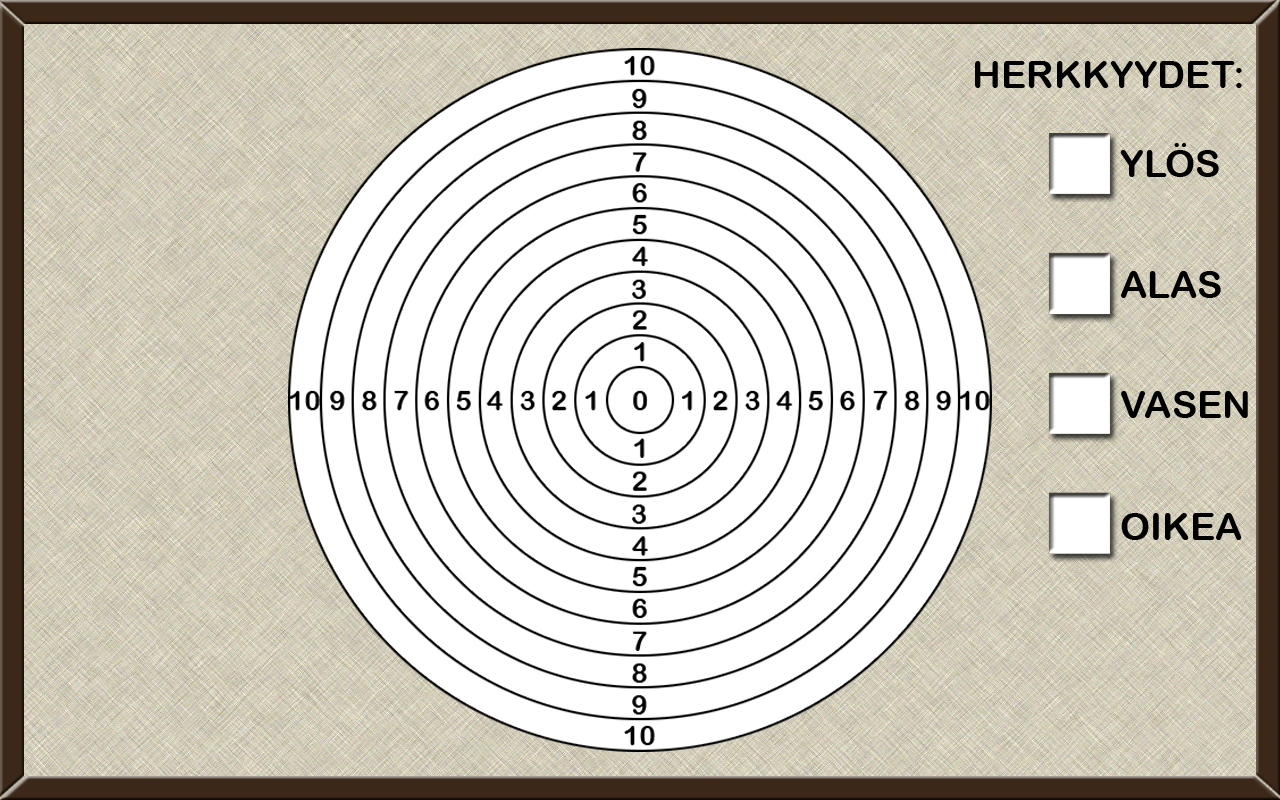
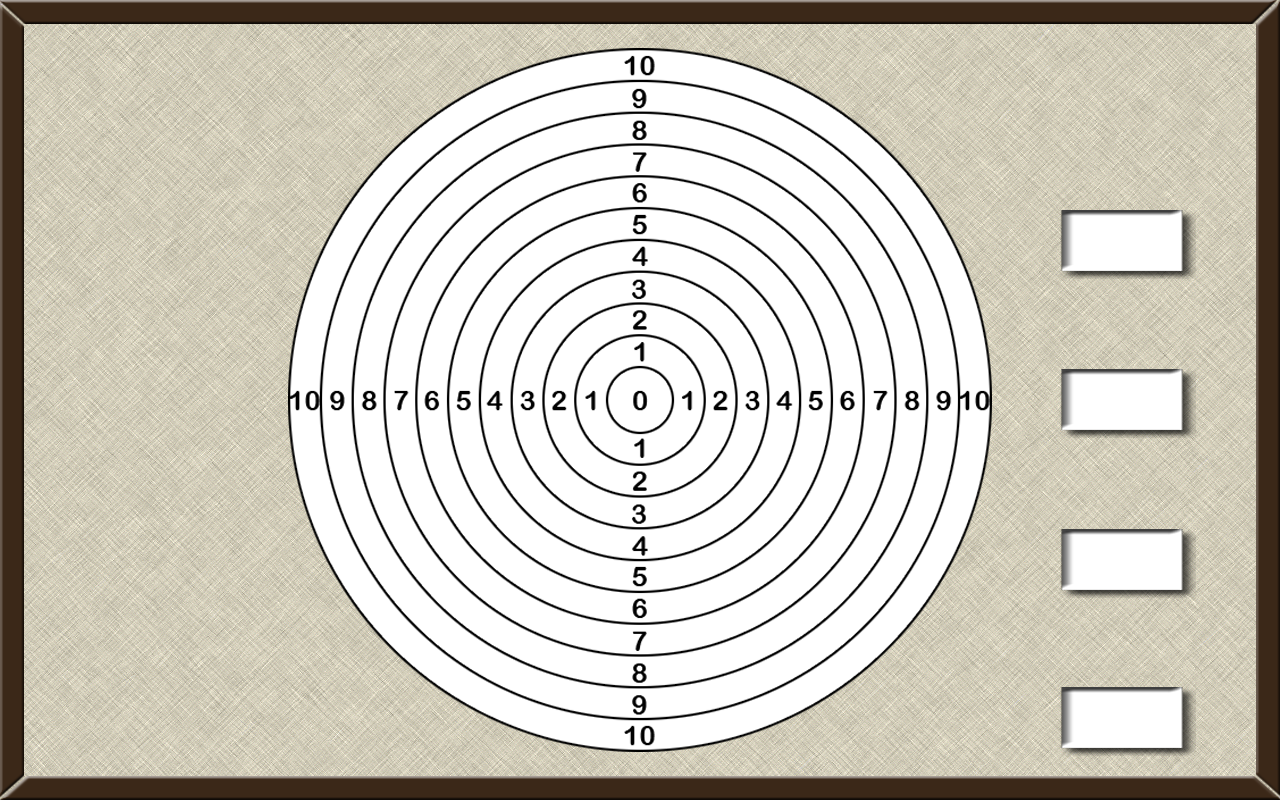
Small calibration changes. Removed some useless files.

diff --git a/core/src/fi/tamk/tiko/piirus/CalibrationScreen.java b/core/src/fi/tamk/tiko/piirus/CalibrationScreen.java
@@ -2,7 +2,6 @@ package fi.tamk.tiko.piirus;
 
 import com.badlogic.gdx.Gdx;
 import com.badlogic.gdx.Input;
-import com.badlogic.gdx.InputProcessor;
 import com.badlogic.gdx.Screen;
 import com.badlogic.gdx.graphics.Color;
 import com.badlogic.gdx.graphics.GL20;
@@ -11,7 +10,6 @@ import com.badlogic.gdx.graphics.Texture;
 import com.badlogic.gdx.graphics.g2d.BitmapFont;
 import com.badlogic.gdx.graphics.g2d.SpriteBatch;
 import com.badlogic.gdx.graphics.g2d.freetype.FreeTypeFontGenerator;
-import com.badlogic.gdx.graphics.glutils.ShapeRenderer;
 import com.badlogic.gdx.input.GestureDetector;
 import com.badlogic.gdx.math.Rectangle;
 import com.badlogic.gdx.math.Vector2;
@@ -26,18 +24,23 @@ public class CalibrationScreen extends GestureDetector.GestureAdapter implements
     private Texture buttonTexture;
     private Texture backgroundTexture;
     private Texture crosshairTexture;
+    private Texture upArrowTexture;
+    private Texture downArrowTexture;
     private BitmapFont font;
     private BitmapFont font2;
     private Rectangle menuRect;
-    private Rectangle upRect;
-    private Rectangle downRect;
-    private Rectangle leftRect;
-    private Rectangle rightRect;
+    private Rectangle upUpRect;
+    private Rectangle downUpRect;
+    private Rectangle leftUpRect;
+    private Rectangle rightUpRect;
+    private Rectangle upDownRect;
+    private Rectangle downDownRect;
+    private Rectangle leftDownRect;
+    private Rectangle rightDownRect;
     //private Rectangle calibrationStartRect;
     private Rectangle crosshairRect;
     private float crosshairSize = 0.01f;
-
-    private boolean calibrate = true;
+    private float textOffset = 20;
 
     //what is printed on the board
     private static float up = 5;
@@ -74,10 +77,20 @@ public class CalibrationScreen extends GestureDetector.GestureAdapter implements
         backgroundTexture.setFilter(Texture.TextureFilter.Linear, Texture.TextureFilter.Linear);
         crosshairTexture = new Texture("crosshair.png");
         crosshairTexture.setFilter(Texture.TextureFilter.Linear, Texture.TextureFilter.Linear);
-        upRect = new Rectangle(6.55f, game.WORLD_HEIGHT*0.75f, 1.1f, 0.5f);
-        downRect = new Rectangle(6.55f, game.WORLD_HEIGHT*0.6f, 1.1f, 0.5f);
-        leftRect = new Rectangle(6.55f, game.WORLD_HEIGHT*0.45f, 1.1f, 0.5f);
-        rightRect = new Rectangle(6.55f, game.WORLD_HEIGHT*0.30f, 1.1f, 0.5f);
+        downArrowTexture = new Texture("calibration_down.png");
+        downArrowTexture.setFilter(Texture.TextureFilter.Linear, Texture.TextureFilter.Linear);
+        upArrowTexture = new Texture("calibration_up.png");
+        upArrowTexture.setFilter(Texture.TextureFilter.Linear, Texture.TextureFilter.Linear);
+
+        upUpRect = new Rectangle(6.3f, game.WORLD_HEIGHT*0.68f, 0.3f, 0.3f);
+        downUpRect = new Rectangle(6.3f, game.WORLD_HEIGHT*0.48f, 0.3f, 0.3f);
+        leftUpRect = new Rectangle(6.3f, game.WORLD_HEIGHT*0.28f, 0.3f, 0.3f);
+        rightUpRect = new Rectangle(6.3f, game.WORLD_HEIGHT*0.08f, 0.3f, 0.3f);
+        upDownRect = new Rectangle(7.4f, game.WORLD_HEIGHT*0.68f, 0.3f, 0.3f);
+        downDownRect = new Rectangle(7.4f, game.WORLD_HEIGHT*0.48f, 0.3f, 0.3f);
+        leftDownRect = new Rectangle(7.4f, game.WORLD_HEIGHT*0.28f, 0.3f, 0.3f);
+        rightDownRect = new Rectangle(7.4f, game.WORLD_HEIGHT*0.08f, 0.3f, 0.3f);
+
         crosshairRect = new Rectangle(game.WORLD_WIDTH/2-crosshairSize/2, game.WORLD_HEIGHT/2-crosshairSize/2, crosshairSize, crosshairSize);
         menuRect = new Rectangle(0,0, 0.4f, 0.4f);
 
@@ -116,22 +129,28 @@ public class CalibrationScreen extends GestureDetector.GestureAdapter implements
         batch.begin();
         batch.draw(backgroundTexture,0,0, game.WORLD_WIDTH, game.WORLD_HEIGHT);
         batch.draw(buttonTexture, menuRect.x, menuRect.y, menuRect.width, menuRect.height);
-
-        if(calibrate) {
-            update();
-        }
+        batch.draw(upArrowTexture, upUpRect.x, upUpRect.y, upUpRect.width, upUpRect.height);
+        batch.draw(upArrowTexture, downUpRect.x, downUpRect.y, downUpRect.width, downUpRect.height);
+        batch.draw(upArrowTexture, leftUpRect.x, leftUpRect.y, leftUpRect.width, leftUpRect.height);
+        batch.draw(upArrowTexture, rightUpRect.x, rightUpRect.y, rightUpRect.width, rightUpRect.height);
+        batch.draw(downArrowTexture, upDownRect.x, upDownRect.y, upDownRect.width, upDownRect.height);
+        batch.draw(downArrowTexture, downDownRect.x, downDownRect.y, downDownRect.width, downDownRect.height);
+        batch.draw(downArrowTexture, leftDownRect.x, leftDownRect.y, leftDownRect.width, leftDownRect.height);
+        batch.draw(downArrowTexture, rightDownRect.x, rightDownRect.y, rightDownRect.width, rightDownRect.height);
+        update();
 
         batch.setProjectionMatrix(fontCamera.combined);
         font.draw(batch, "<-", menuRect.x*100, (menuRect.y + menuRect.getHeight() / 2)*100 );
-        font.draw(batch, "" + up, fontSpot(up), game.SCREEN_HEIGHT*0.8125f);
-        font.draw(batch, "" + down, fontSpot(down), game.SCREEN_HEIGHT*0.662f);
-        font.draw(batch, "" + left, fontSpot(left), game.SCREEN_HEIGHT*0.5115f);
-        font.draw(batch, "" + right, fontSpot(right), game.SCREEN_HEIGHT*0.361f);
+        font.draw(batch, "" + up, fontSpot(up), game.SCREEN_HEIGHT*0.72f);
+        font.draw(batch, "" + down, fontSpot(down), game.SCREEN_HEIGHT*0.52f);
+        font.draw(batch, "" + left, fontSpot(left), game.SCREEN_HEIGHT*0.32f);
+        font.draw(batch, "" + right, fontSpot(right), game.SCREEN_HEIGHT*0.12f);
         font2.draw(batch, textSensitivity, game.SCREEN_WIDTH*0.75f, game.SCREEN_HEIGHT*0.915f);
-        font2.draw(batch, textUp, fontSpot(up), game.SCREEN_HEIGHT*0.8125f);
-        font2.draw(batch, textDown, fontSpot(down), game.SCREEN_HEIGHT*0.662f);
-        font2.draw(batch, textLeft, fontSpot(left), game.SCREEN_HEIGHT*0.5115f);
-        font2.draw(batch, textRight, fontSpot(right), game.SCREEN_HEIGHT*0.361f);
+        font2.draw(batch, textUp, fontSpot(up), game.SCREEN_HEIGHT*0.75f + textOffset);
+        font2.draw(batch, textDown, fontSpot(down), game.SCREEN_HEIGHT*0.55f + textOffset);
+        font2.draw(batch, textLeft, fontSpot(left), game.SCREEN_HEIGHT*0.35f +textOffset);
+        font2.draw(batch, textRight, fontSpot(right), game.SCREEN_HEIGHT*0.15f + textOffset);
+        font2.draw(batch, textTutorial, 1f, game.SCREEN_HEIGHT*0.85f);
         batch.end();
 
         if(Gdx.input.isKeyJustPressed(Input.Keys.BACK)){
@@ -168,6 +187,8 @@ public class CalibrationScreen extends GestureDetector.GestureAdapter implements
         buttonTexture.dispose();
         backgroundTexture.dispose();
         crosshairTexture.dispose();
+        upArrowTexture.dispose();
+        downArrowTexture.dispose();
     }
     @Override
     public boolean tap(float x, float y, int count, int button) {
@@ -183,41 +204,61 @@ public class CalibrationScreen extends GestureDetector.GestureAdapter implements
             game.downYMultiplier = downYMultiplier;
             game.setScreen(new SettingsScreen(game, font));
         }
-        if(upRect.contains(touchPos.x, touchPos.y)) {
+
+        if(upUpRect.contains(touchPos.x, touchPos.y)) {
+            if(game.sounds)
+                game.buttonSound.play(game.effectVolume);
+            if(up < 10) {
+                up++;
+            }
+        }
+        if(downUpRect.contains(touchPos.x, touchPos.y)) {
+            if(game.sounds)
+                game.buttonSound.play(game.effectVolume);
+            if(down < 10) {
+                down++;
+            }
+        }
+        if(leftUpRect.contains(touchPos.x, touchPos.y)) {
+            if(game.sounds)
+                game.buttonSound.play(game.effectVolume);
+            if(left < 10) {
+                left++;
+            }
+        }
+        if(rightUpRect.contains(touchPos.x, touchPos.y)) {
+            if(game.sounds)
+                game.buttonSound.play(game.effectVolume);
+            if(right < 10) {
+                right++;
+            }
+        }
+        if(upDownRect.contains(touchPos.x, touchPos.y)) {
             if(game.sounds)
                 game.buttonSound.play(game.effectVolume);
             if(up > 1) {
                 up--;
-            } else {
-                up = 10;
             }
-
         }
-        if(downRect.contains(touchPos.x, touchPos.y)) {
+        if(downDownRect.contains(touchPos.x, touchPos.y)) {
             if(game.sounds)
                 game.buttonSound.play(game.effectVolume);
             if(down > 1) {
                 down--;
-            } else {
-                down = 10;
             }
         }
-        if(leftRect.contains(touchPos.x, touchPos.y)) {
+        if(leftDownRect.contains(touchPos.x, touchPos.y)) {
             if(game.sounds)
                 game.buttonSound.play(game.effectVolume);
             if(left > 1) {
                 left--;
-            } else {
-                left = 10;
             }
         }
-        if(rightRect.contains(touchPos.x, touchPos.y)) {
+        if(rightDownRect.contains(touchPos.x, touchPos.y)) {
             if(game.sounds)
                 game.buttonSound.play(game.effectVolume);
             if(right > 1) {
                 right--;
-            } else {
-                right = 10;
             }
         }
         return false;
@@ -317,9 +358,9 @@ public class CalibrationScreen extends GestureDetector.GestureAdapter implements
 
     private int fontSpot(float i) {
         if (i >= 10) {
-            return 659;
-        } else {
             return 669;
+        } else {
+            return 679;
         }
     }
 }
